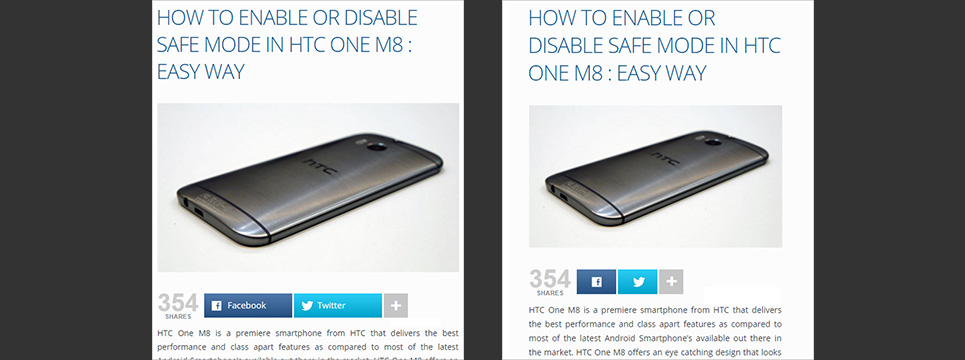
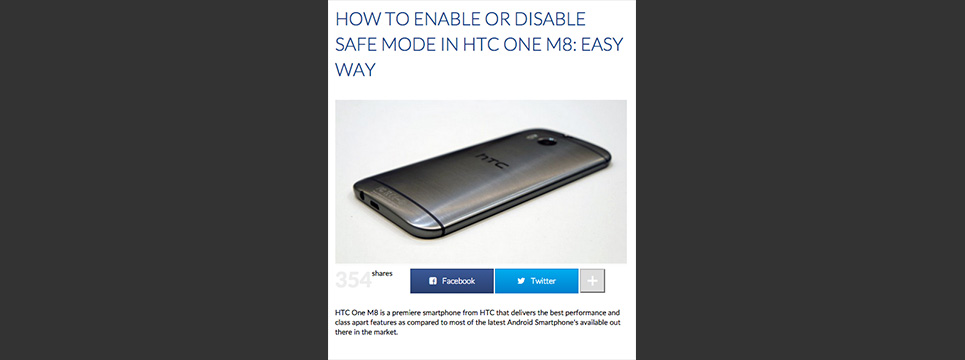
Component 6

diff --git a/components/6/component.css b/components/6/component.css
@@ -2,7 +2,128 @@
 ================================================================================
 COMPONENT STYLESHEET
 ================================================================================ */
+html { font-size: 62.5%; }
 
-/* HEADER ======================================== */
+body {
+    font: 1.6rem/1.4 'Lato', sans-serif;
+}
 
-/* HEADER ======================================== */
+/* SECTION ======================================== */
+
+section {
+    width: 100%;
+}
+
+h2 {
+    font-size: 3rem;
+    text-transform: uppercase;
+    color: #134c91;
+    font-weight: 300;
+    padding-bottom: 3rem;
+}
+
+article {
+    width: 40%;
+    float: left;
+    padding: 1%;
+}
+
+img {
+    width:  100%;
+}
+
+p {
+    font-size: 1.2rem;   
+}
+
+ul {
+ width: 100%;
+}
+
+ul::after {
+    content: "";
+    display: table;
+    clear: both;
+}
+
+li a {
+    color: #fff;
+    display: block;
+    float: left;
+    width: calc(100% / 7 * 2);
+    font-size: 1.3rem;
+    padding: 1rem;
+    font-weight: 300;
+    text-align: center;
+    margin-right: 2px;
+}
+
+li p {
+ float: left;   
+    padding-right: 3rem;
+    text-align: center;
+    
+}
+
+li p span {
+    font-size: 3.5rem;
+    font-weight: 700;
+    line-height: 1;
+    color: #eee;
+    text-align: center;
+    float: left;
+    clear: both;
+}   
+
+button {
+    color: #fff;
+    background: #ddd;
+    display: block;
+    float: left;
+    font-size: 3rem;
+    line-height: 0;
+    padding: 1.5rem 1rem 2.1rem;
+    font-weight: 300;
+    text-align: center;
+}
+
+a[href*="facebook"] {
+	background-color: #2b4170; /* fallback color */
+	background: -moz-linear-gradient(top, #3b5998, #2b4170);
+	background: -ms-linear-gradient(top, #3b5998, #2b4170);
+	background: -webkit-linear-gradient(top, #3b5998, #2b4170);
+	border: 1px solid #2b4170;
+	text-shadow: 0 -1px -1px #1f2f52;
+}
+
+a[href*="facebook"]::before {
+    content: "\f082";
+    font-family: FontAwesome;
+    font-style: normal;
+    font-weight: normal;
+    padding-right: 1rem; 
+    width: 3rem;
+    height: 3rem;  
+}
+
+a[href*="twitter"]::before {
+    content: "\f099";
+    font-family: FontAwesome;
+    font-style: normal;
+    font-weight: normal;
+    padding-right: 1rem; 
+    width: 3rem;
+    height: 3rem;  
+}
+
+a[href*="twitter"] {
+ 	background-color: #0081ce; /* fallback color */
+	background: -moz-linear-gradient(top, #00aced, #0081ce);
+	background: -ms-linear-gradient(top, #00aced, #0081ce);
+	background: -webkit-linear-gradient(top, #00aced, #0081ce);
+	border: 1px solid #0081ce;
+}
+
+article > p {
+    padding: 5% 0;
+}

diff --git a/components/6/component.html b/components/6/component.html
@@ -4,6 +4,8 @@
 	<title>WSP Component: Michelle Munksgard</title>
 	<link rel="stylesheet" type="text/css" href="../../css/reset.css" />
 	<link rel="stylesheet" type="text/css" href="component.css" />
+    <link href='http://fonts.googleapis.com/css?family=Lato:400,300italic,300,700' rel='stylesheet' type='text/css'>
+    <link rel="stylesheet" type="text/css" href="font-awesome.min.css" />
 </head>
 <body>
 
@@ -11,26 +13,18 @@
     <section>
         <article>
             <h2>How to enable or disable safe mode in HTC one M8: Easy Way</h2>
-            <img src="" alt="" />
-            <p>354 shares</p>
+            <img src="images/phone.png" alt="HTC Phone" />
+            
             <ul>
-                <li><a href="#">Facebook</a></li>
-                <li><a href="#">Twitter</a></li>
-                <li><button><img src="" alt="More"></button></li>
+                <li><p><span>354</span> shares</p></li>
+                <li><a href="http://www.facebook.com">Facebook</a></li>
+                <li><a href="http://www.twitter.com">Twitter</a></li>
+                <li><button>+</button></li>
             </ul>
             <p>HTC One M8 is a premiere smartphone from HTC that delivers the best performance and class apart features as compared to most of the latest Android Smartphone's available out there in the market.</p>
         </article>
-        <article>
-            <h2>How to enable or disable safe mode in HTC one M8: Easy Way</h2>
-            <img src="" alt="" />
-            <p>354 shares</p>
-            <ul>
-                <li><a href="#">Facebook</a></li>
-                <li><a href="#">Twitter</a></li>
-                <li><button><img src="" alt="More"></button></li>
-            </ul>
-            <p>HTC One M8 is a premiere smartphone from HTC that delivers the best performance and class apart features as compared to most of the latest Android Smartphone's available out there in the market.</p>
-        </article>
+        
+        
     </section>
 
 
